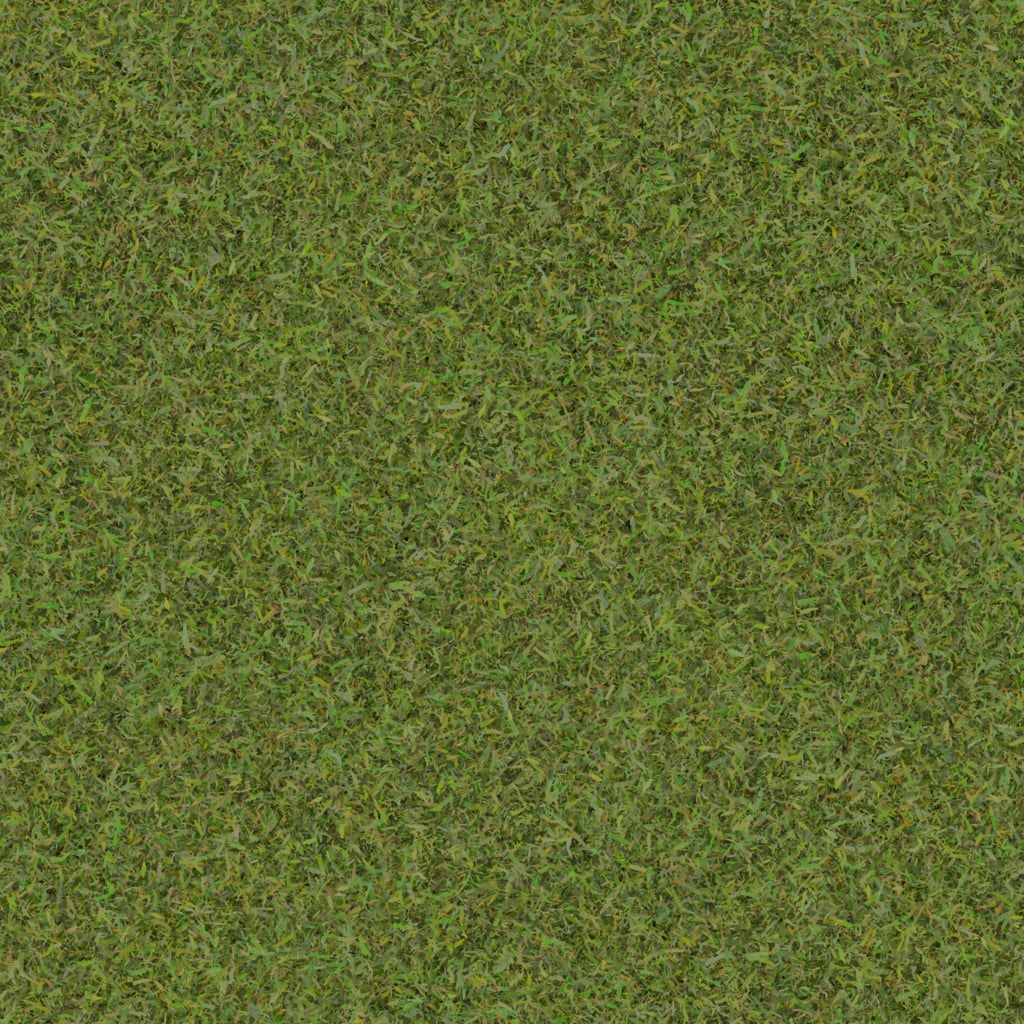
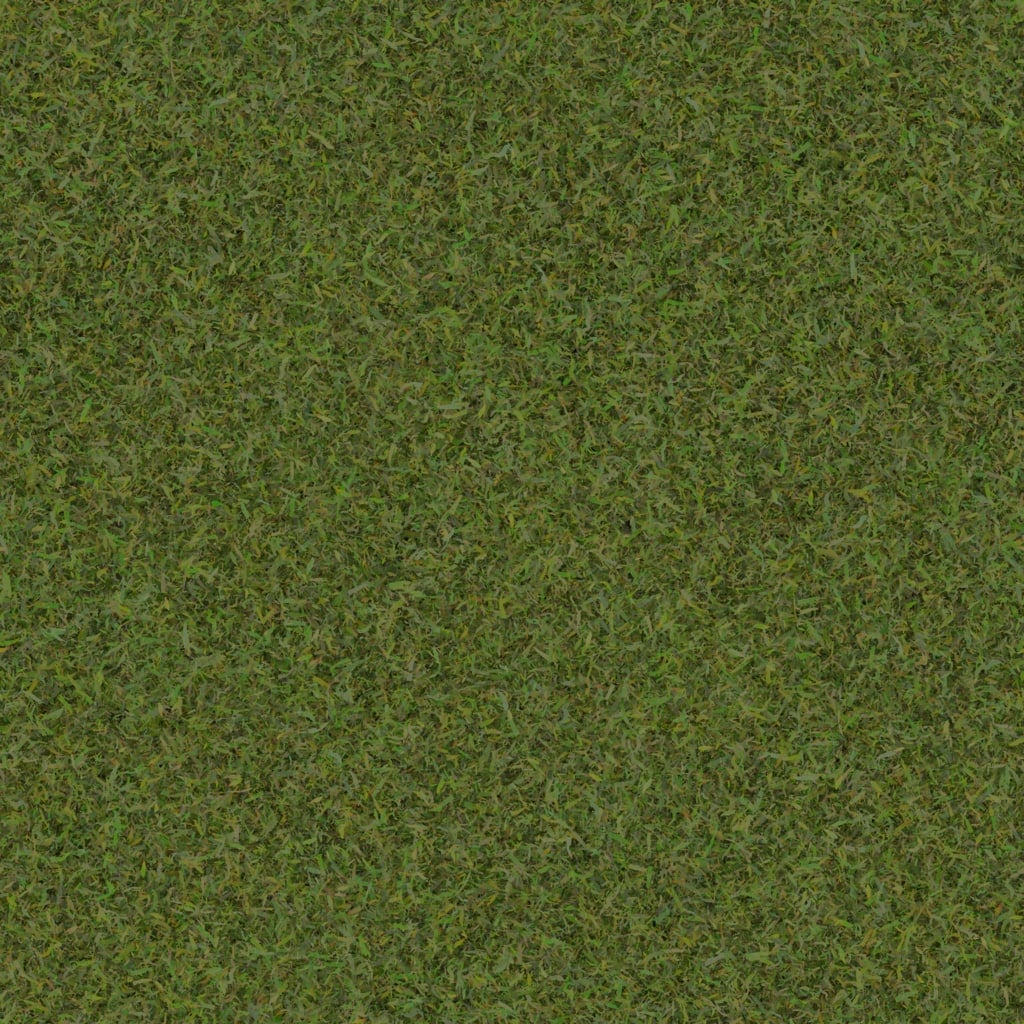
Chão menos brilhante: mais áspero, relevo mais suave e floresta/grama/terra mais escuras

diff --git a/public/terreno.js b/public/terreno.js
@@ -8,7 +8,7 @@ export const MARGEM = 1;            // borda da maquete: o resto é a mesa de jo
 export const MESA_Y = -.35;         // altura do tampo da mesa
 // camadas de textura (ordem do array de texturas)
 const CAMADAS = ['grama', 'terra', 'areia', 'rocha', 'calcada', 'tabuas', 'vidro', 'floresta'];
-const ASPEREZA = [.95, .95, .9, .85, .8, .7, .18, .95];
+const ASPEREZA = [1, 1, .95, .92, .9, .85, .45, 1];
 const ESCALA = [.55, .5, .45, .32, .5, .5, .4, .5];     // repetições por casa
 const RUGOSO = [1, 1, .8, 1.4, 0, 0, .1, 1];            // quanto o relevo natural aparece
 // terreno da casa → camada
@@ -204,7 +204,7 @@ export function construirSolo(mesa, tex, opcoes = {}) {
       .replace('#include <normal_fragment_maps>', `
         {
           vec3 T = normalize(cross(vec3(0., 0., 1.), nM)); vec3 B = normalize(cross(nM, T));
-          vec3 nW = normalize(nM + (T * nTex.x - B * nTex.y) * 1.1);
+          vec3 nW = normalize(nM + (T * nTex.x - B * nTex.y) * .6);
           normal = normalize((viewMatrix * vec4(nW, 0.)).xyz);
         }`);
   };
